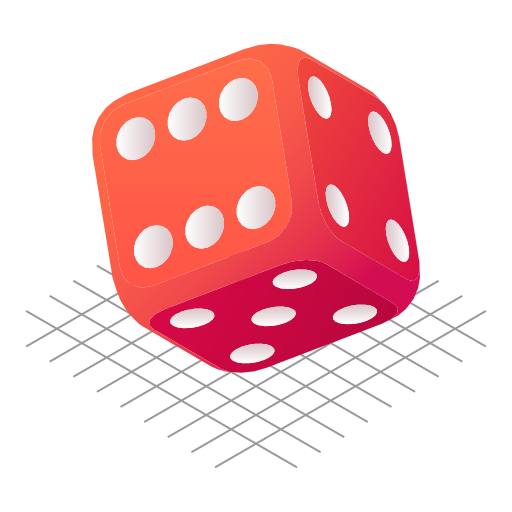
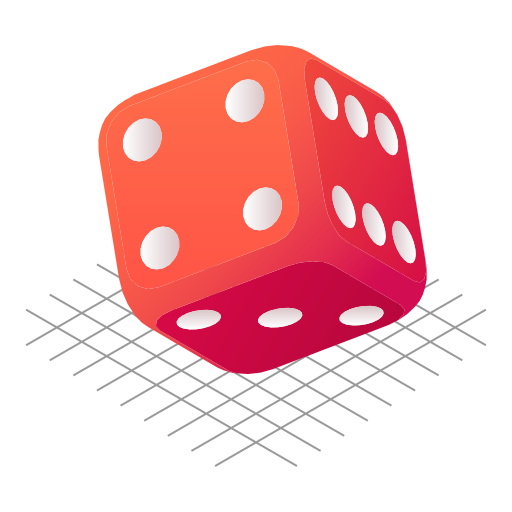
js added

diff --git a/index.html b/index.html
@@ -7,6 +7,7 @@
         body{
             display: block;
             text-align: center;
+            background-image: linear-gradient(to right, #d7d2cc 0%, #304352 100%);
         }
         .dice-roller{
             height: 300px;
@@ -26,8 +27,40 @@
 </head>
 <body>
     <h1 class="heading">Roll the Dice</h1>
-    <img src="dice.png" alt="" class="dice-roller">
-    <button class="btn-dice">Roll Dice</button>
-    
+    <img src="dice.png" alt="dice" class="dice-roller" id="dice-img">
+    <button class="btn-dice" onclick="roll()">Roll Dice</button>
+ <script>
+    function roll()
+    {
+        const min=1;
+        const max=6;
+        const randomNumber=Math.round(Math.random()*(max-min)+min);
+
+       const imgElement=document.getElementById('dice-img');
+
+       switch(randomNumber){
+        case 1:
+           imgElement.src="dice (1).png";
+           break; 
+           case 2:
+           imgElement.src="dice (2).png";
+           break; 
+           case 3:
+           imgElement.src="dice (3).png";
+           break; 
+           case 4:
+           imgElement.src="dice (4).png";
+           break; 
+           case 5:
+           imgElement.src="dice (5).png";
+           break; 
+           case 6:
+           imgElement.src="dice (6).png";
+           break; 
+           default:
+            imgElement.src='default.png';
+       }
+    }
+</script>
 </body>
 </html>
